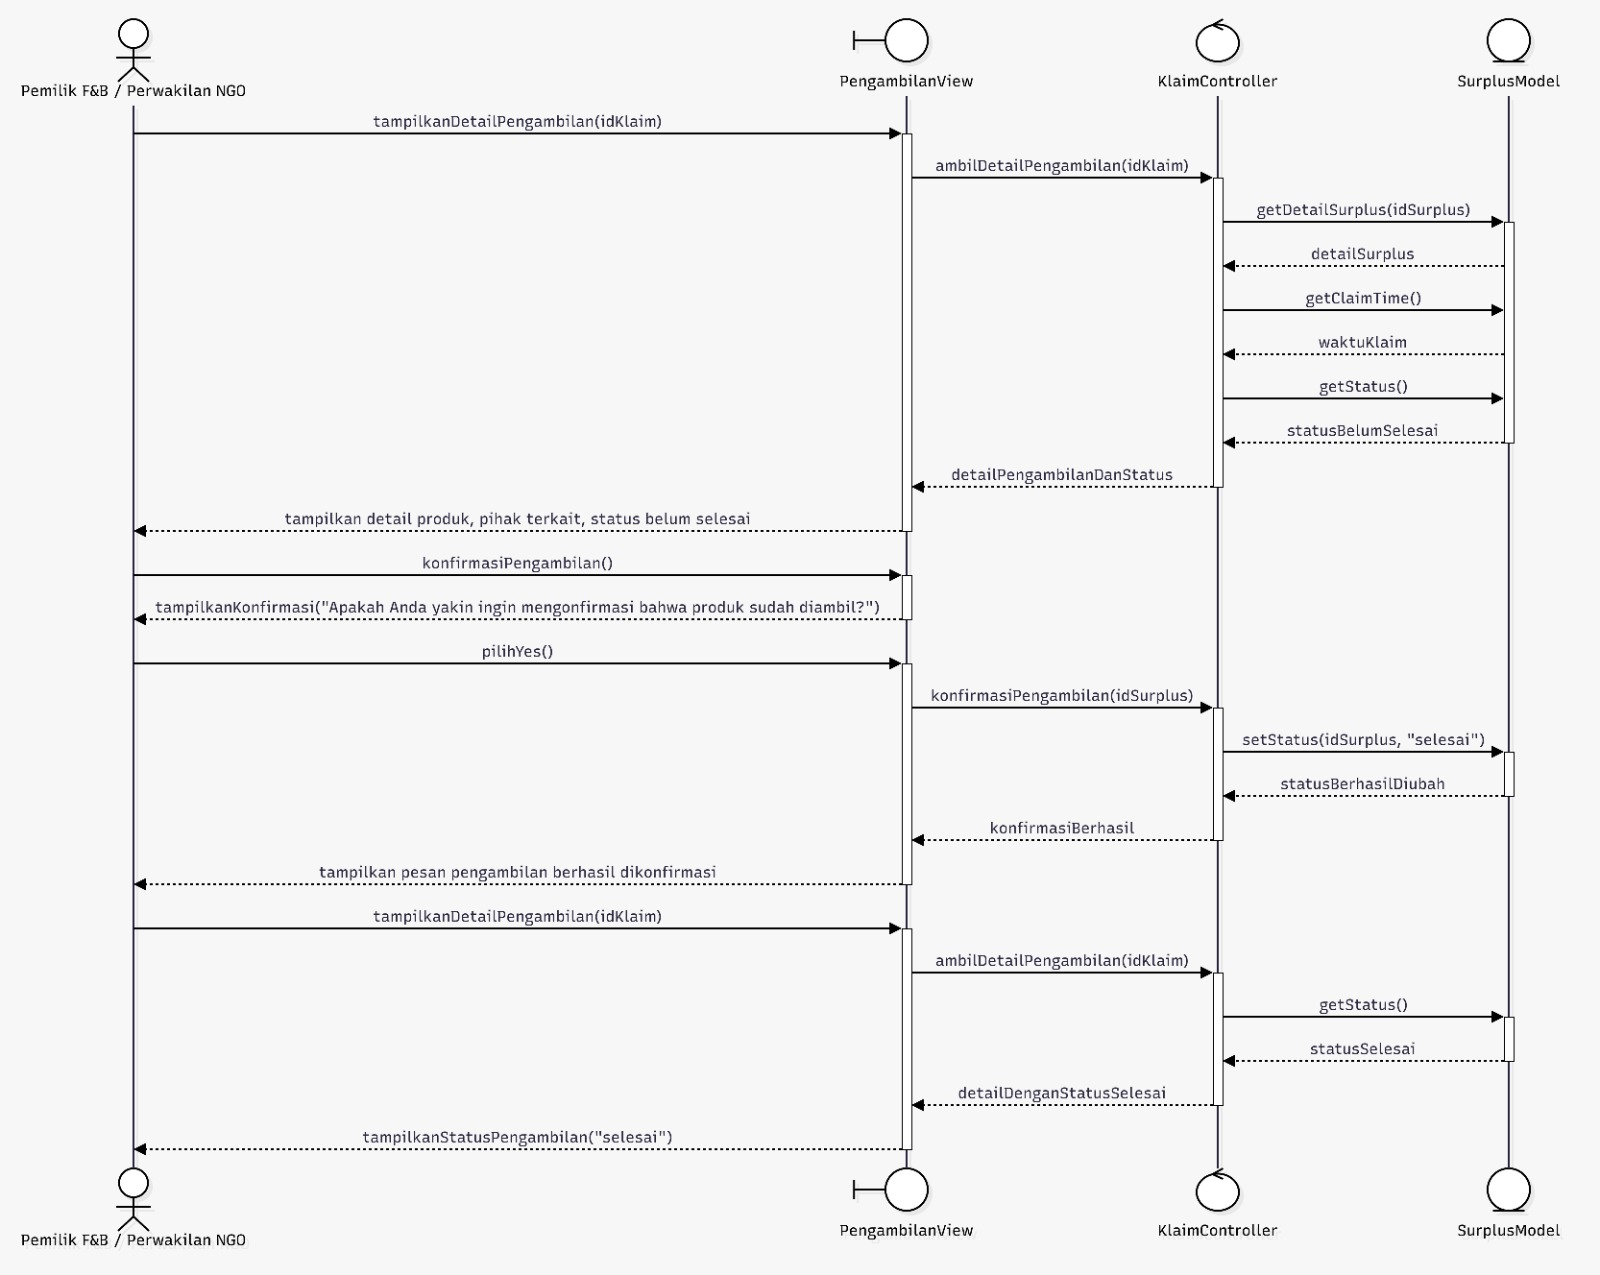
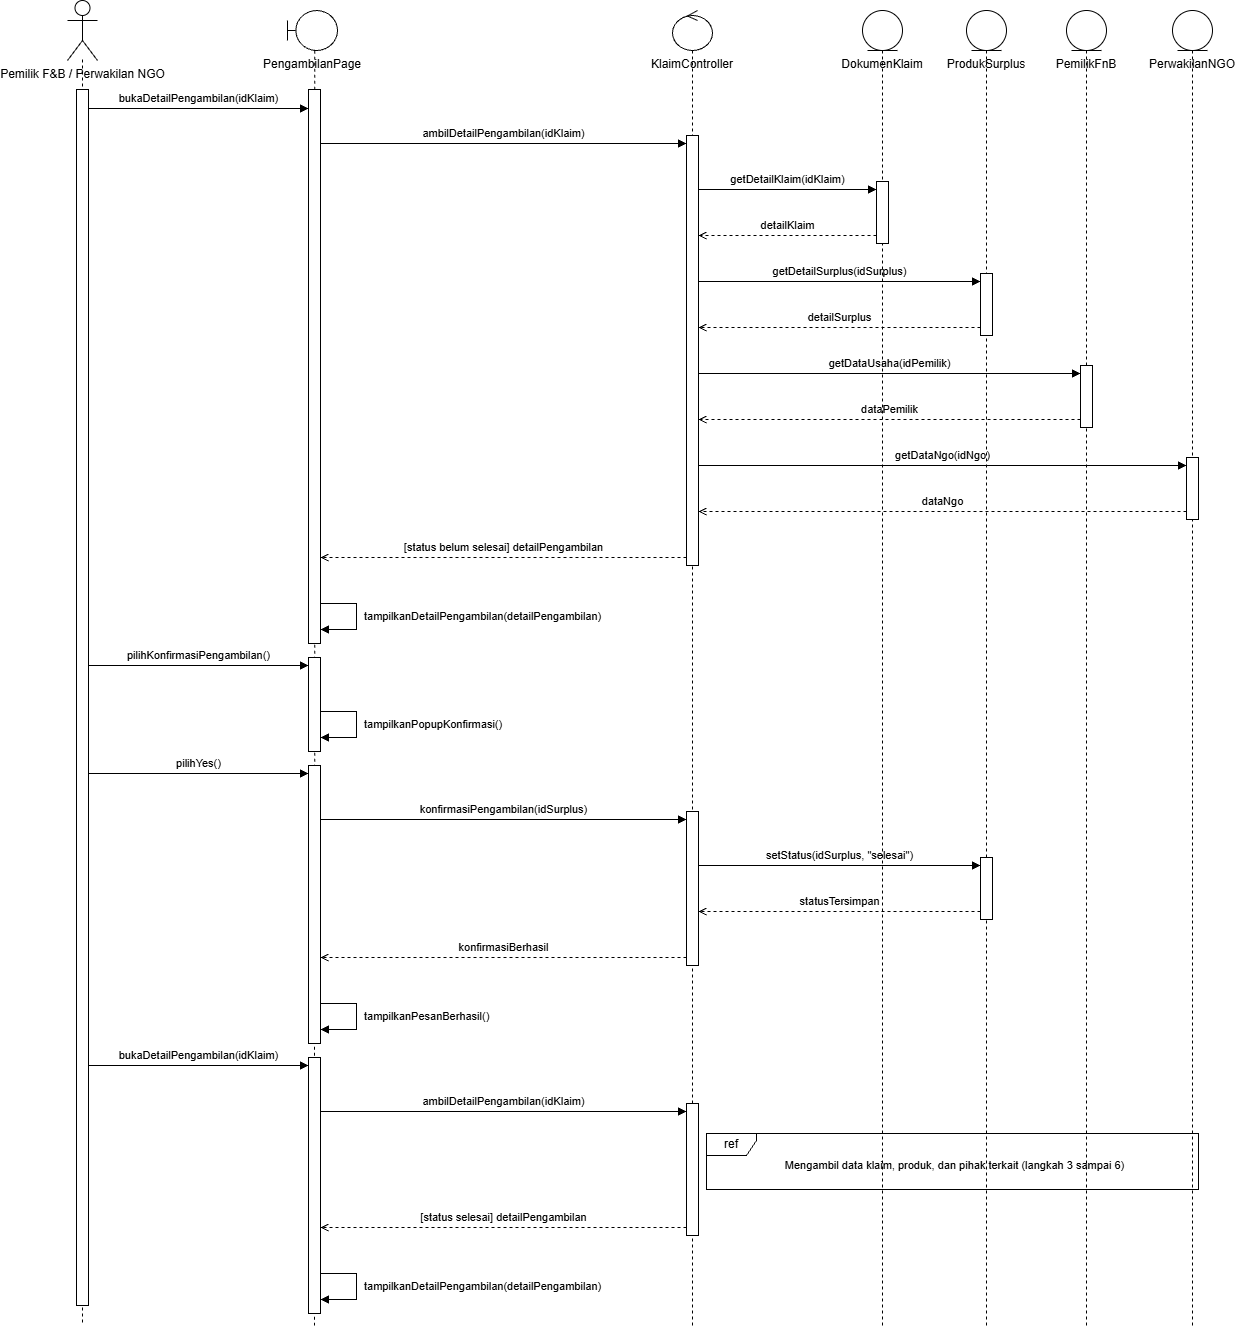
docs: merevisi realisasi UC11 dan UC12

diff --git a/docs/M8/K03_G08_DPPL2.md b/docs/M8/K03_G08_DPPL2.md
@@ -32,8 +32,8 @@ Dipersiapkan oleh:
 
 | Revisi | Deskripsi |
 | :--- | :--- |
-| *A* | *Deskripsikan perubahan yang dilakukan dari dokumen sebelumnya pada dokumen ini. Jika tidak terdapat perubahan, harap kosongkan tabel.* |
-| *B* |  |
+| *A* | *Merevisi realisasi UC11 dan UC12: mengganti identifikasi kelas pada kedua use case, menyeragamkan penamaan atribut dan operasi ke bahasa Indonesia, lalu mengganti sequence diagram dan class diagram sehingga konsisten dengan perubahan yang dilakukan* |
+| *B* | *Merapikan serta menyesuaikan daftar kelas perancangan keseluruhan dengan perubahan yang ada* |
 | *C* |  |
 | ... |  |
 
@@ -672,9 +672,13 @@ Tabel 3.11 Identifikasi Kelas Use Case UC11
 
 | No | Nama Kelas Perancangan | Nama Kelas Analisis Terkait |
 |:---|:---|:---|
-| 1 | *PengambilanView* (C21) | *ProdukSurplus* (C08) |
-| 2 | *KlaimController* (C28) | *DokumenKlaim* (C10) |
-| 3 | *SurplusModel* (C08, C10) | *ProdukSurplus* (C08), *DokumenKlaim* (C10) |
+| 1 | *PengambilanPage (C21)* | *PengambilanPage (C21)* |
+| 2 | *KlaimController (C28)* | *KlaimController (C28)* |
+| 3 | *DokumenKlaim (C10)* | *DokumenKlaim (C10)* |
+| 4 | *ProdukSurplus (C08)* | *ProdukSurplus (C08)* |
+| 5 | *PemilikFnB (C30)* | *PemilikFnB (C30)* |
+| 6 | *PerwakilanNGO (C31)* | *PerwakilanNGO (C31)* |
+| 7 | *AkunPengguna (C01)* | *AkunPengguna (C01)* |
 
 
 ### 3.11.2 Sequence Diagram
@@ -700,7 +704,7 @@ Tabel 3.11 Identifikasi Kelas Use Case UC11
 ### 3.11.3 Diagram Kelas
 
 <p align="center">
-<img alt="Diagram Kelas Mengonfirmasi Pengambilan Produk Surplus" src="./assets/diagram/Gambar 3.11.3. Diagram Kelas UC11 - Mengonfirmasi Pengambilan Produk Surplus.png" width="50%">
+<img alt="Diagram Kelas Mengonfirmasi Pengambilan Produk Surplus" src="./assets/diagram/Gambar 3.11.3. Diagram Kelas UC11 - Mengonfirmasi Pengambilan Produk Surplus.png" width="35%">
 </p>
 <p align="center">
 <i>Gambar 3.11.3 Diagram Kelas Mengonfirmasi Pengambilan Produk Surplus</i>
@@ -721,6 +725,7 @@ Tabel 3.12 Identifikasi Kelas Use Case UC12
 | 2 | *LogController (C29)* | *LogController (C29)* |
 | 3 | *LogAktivitas (C11)* | *LogAktivitas (C11)* |
 | 4 | *AdminSistem (C32)* | *AdminSistem (C32)* |
+| 5 | *AkunPengguna (C01)* | *AkunPengguna (C01)* |
 
 ### 3.12.2 Sequence Diagram
 
@@ -783,36 +788,36 @@ Tabel 4.1. Daftar Kelas Perancangan Keseluruhan
 | *C02* | *Pendaftaran* | *idPendaftaran, tanggalDaftar, statusVerifikasi* | *ajukanPendaftaran(), getDaftarMenungguVerifikasi(), getDetailPendaftar(), updateStatus()* |
 | *C03* | *DokumenPendukung* | *idDokumen, namaFile, tipeDokumen* | *unggahDokumen(), getDokumen()* |
 | *C04* | *VerifikasiController* | *-* | *tampilkanDaftarPendaftar(), ambilDetailPendaftar(), prosesVerifikasi()* |
+| *C05* | *Produk* | *-idProduk, -namaProduk, -kategori* | *+getDetailProduk()* |
+| *C06* | *DataPenjualan* | *-idPenjualan, -tanggal, -jumlahTerjual, -jumlahTersisa* | *+getDataHistoris()* |
+| *C07* | *PrediksiProduksi* | *-idPrediksi, -tanggalPrediksi, -jumlahRekomendasi* | *+buatPrediksi(), +getHasilPrediksi()* |
+| *C08* | *ProdukSurplus* | *-idSurplus, -jumlah, -batasWaktuPengambilan, -status* | *+simpanProdukSurplus(), +setStatus(), +getDetailSurplus()* |
+| *C09* | *MetodeDistribusiSurplus* | *-idDistribusi, -jenisDistribusi, -harga* | *+pilihMetodeDistribusi(), +hitungHargaDiskon(), +getInfoDistribusi()* |
+| *C10* | *DokumenKlaim* | *idKlaim, idNgo, waktuKlaim* | *catatKlaim(), getDetailKlaim()* |
+| *C11* | *LogAktivitas* | *idLog, aktivitas, waktu* | *catatLog(), getDaftarLog(), cariLog()* |
 | *C12* | *RegistrasiPage* | *-* | *pilihTipeAkun(), tampilkanFormRegistrasi(), kirimFormulir(), tampilkanPesanBerhasil(), tampilkanPesanError()* |
 | *C13* | *VerifikasiPage* | *-* | *bukaDaftarVerifikasi(), tampilkanDaftarVerifikasi(), pilihPendaftar(), tampilkanDetailPendaftar(), kirimKeputusan()* |
 | *C14* | *StatusPendaftaranPage* | *-* | *tampilkanStatusPendaftaran()* |
 | *C15* | *PenjualanPage* | *-* | *tampilkanFormPenjualan(), kirimDataPenjualan()* |
-| *C23* | *AuthController* | *-* | *registrasiAkun(), validasiKelengkapanData(), validasiFormatDokumen()* |
-| *C24* | *PenjualanController* | *-* | *validasiInputPenjualan(), simpanDataPenjualan()* |
-| *C30* | *PemilikFnB* | *namaUsaha, alamatUsaha, jamOperasional* | ** |
-| *C31* | *PerwakilanNGO* | *namaOrganisasi, nomorLegalitas, lokasi* | ** |
-| *C32* | *AdminSistem* | *kewenangan* | *verifikasiPendaftaran()* |
-| *C05* | *Produk* | *-idProduk, -namaProduk, -kategori* | *+getDetailProduk()* |
-| *C06* | *DataPenjualan* | *-idPenjualan, -tanggal, -jumlahTerjual, -jumlahTersisa* | *+getDataHistoris()* |
-| *C07* | *PrediksiProduksi* | *-idPrediksi, -tanggalPrediksi, -jumlahRekomendasi* | *+buatPrediksi(), +getHasilPrediksi()* |
-| *C08* | *ProdukSurplus* | *-idSurplus, -jumlah, -batasWaktuPengambilan, -status* | *+simpanProdukSurplus(), +setStatus()* |
 | *C16* | *PrediksiPage* | *-* | *+tampilkanDashboardPrediksi(), +tampilkanGrafik(), +tampilkanPesanError()* |
 | *C17* | *ProdukSurplusPage* | *-* | *+tampilkanFormulirSurplus(), +kirimDataSurplus(), +resetFormulir(), +tampilkanNotifikasiSukses(), +kosongkanIsian()* |
-| *C25* | *PrediksiController* | *-* | *+cekKecukupanData(), +jalankanPrediksi()* |
-| *C26* | *ProdukSurplusController* | *-* | *+validasiDataSurplus(), +simpanDataSurplus()* |
-| *C34* | *PenyaringanController* | *-* | *saringProdukSurplus(), cariProdukSurplus(), validasiKriteria(), saringBerdasarkanJenis(), saringBerdasarkanJarak(), saringBerdasarkanBatasWaktu()* |
-| *C09* | *MetodeDistribusiSurplus* | *-idDistribusi, -jenisDistribusi, -harga* | *+pilihMetodeDistribusi(), +hitungHargaDiskon(), +getInfoDistribusi()* |
-| *C10* | *DokumenKlaim* | *-claimId, -ngoId, -claimTime* | *+recordClaim(), +getClaimTime()* |
-| *C11* | *LogAktivitas* | *-logId, -activity, -time* | *+recordLog(), +getActivity()* |
 | *C18* | *DistribusiSurplusPage* | *-* | *+tampilkanOpsiDistribusi()* |
 | *C19* | *DaftarSurplusPage* | *-* | *+tampilkanDaftarSurplus(), +tampilkanFormFilter()* |
-| *C20* | *KlaimPage* | *-selectedProduct* | *+showPage(), +submitClaim()* |
-| *C21* | *PengambilanPage* | *-* | *+tampilkanDetailPengambilan(), +konfirmasiPengambilan()* |
-| *C22* | *LogAktivitasPage* | *-displayedLogList, -filterInput* | *+showPage(), +applyFilter()* |
+| *C20* | *KlaimPage* | *produkTerpilih* | *tampilkanHalaman(), kirimKlaim()* |
+| *C21* | *PengambilanPage* | *-* | *bukaDetailPengambilan(), tampilkanDetailPengambilan(), tampilkanPopupKonfirmasi(), pilihKonfirmasiPengambilan(), pilihYes(), pilihNo(), tutupPopupKonfirmasi(), tampilkanPesanBerhasil()* |
+| *C22* | *LogAktivitasPage* | *daftarLogTampil* | *bukaDashboardLog(), tampilkanDashboardLog(), terapkanFilter(), tampilkanTabelLog(), tampilkanPesanLogKosong()* |
+| *C23* | *AuthController* | *-* | *registrasiAkun(), validasiKelengkapanData(), validasiFormatDokumen()* |
+| *C24* | *PenjualanController* | *-* | *validasiInputPenjualan(), simpanDataPenjualan()* |
+| *C25* | *PrediksiController* | *-* | *+cekKecukupanData(), +jalankanPrediksi()* |
+| *C26* | *ProdukSurplusController* | *-* | *+validasiDataSurplus(), +simpanDataSurplus()* |
 | *C27* | *SurplusController* | *-* | *+ambilDaftarSurplus(), +urutkanBerdasarkanJarak()* |
-| *C28* | *KlaimController* | *-* | *+checkAvailability(), +approveClaim()* |
-| *C29* | *LogController* | *-* | *+showLog(), +filterLog()* |
-| *C33* | *GeolocationAdapter* | ** | *+getCoordinates(), +calculateDistance()* |
+| *C28* | *KlaimController* | *-* | *ambilDetailPengambilan(), konfirmasiPengambilan()* |
+| *C29* | *LogController* | *-* | *tampilkanLog(), saringLog()* |
+| *C30* | *PemilikFnB* | *namaUsaha, alamatUsaha, jamOperasional* | *(diwarisi dari AkunPengguna)* |
+| *C31* | *PerwakilanNGO* | *namaOrganisasi, nomorLegalitas, lokasi* | *(diwarisi dari AkunPengguna)* |
+| *C32* | *AdminSistem* | *kewenangan* | *verifikasiPendaftaran()* |
+| *C33* | *GeolocationAdapter* | *(tidak ada)* | *+getCoordinates(), +calculateDistance()* |
+| *C34* | *PenyaringanController* | *-* | *saringProdukSurplus(), cariProdukSurplus(), validasiKriteria(), saringBerdasarkanJenis(), saringBerdasarkanJarak(), saringBerdasarkanBatasWaktu()* |
 
 <br>
 
